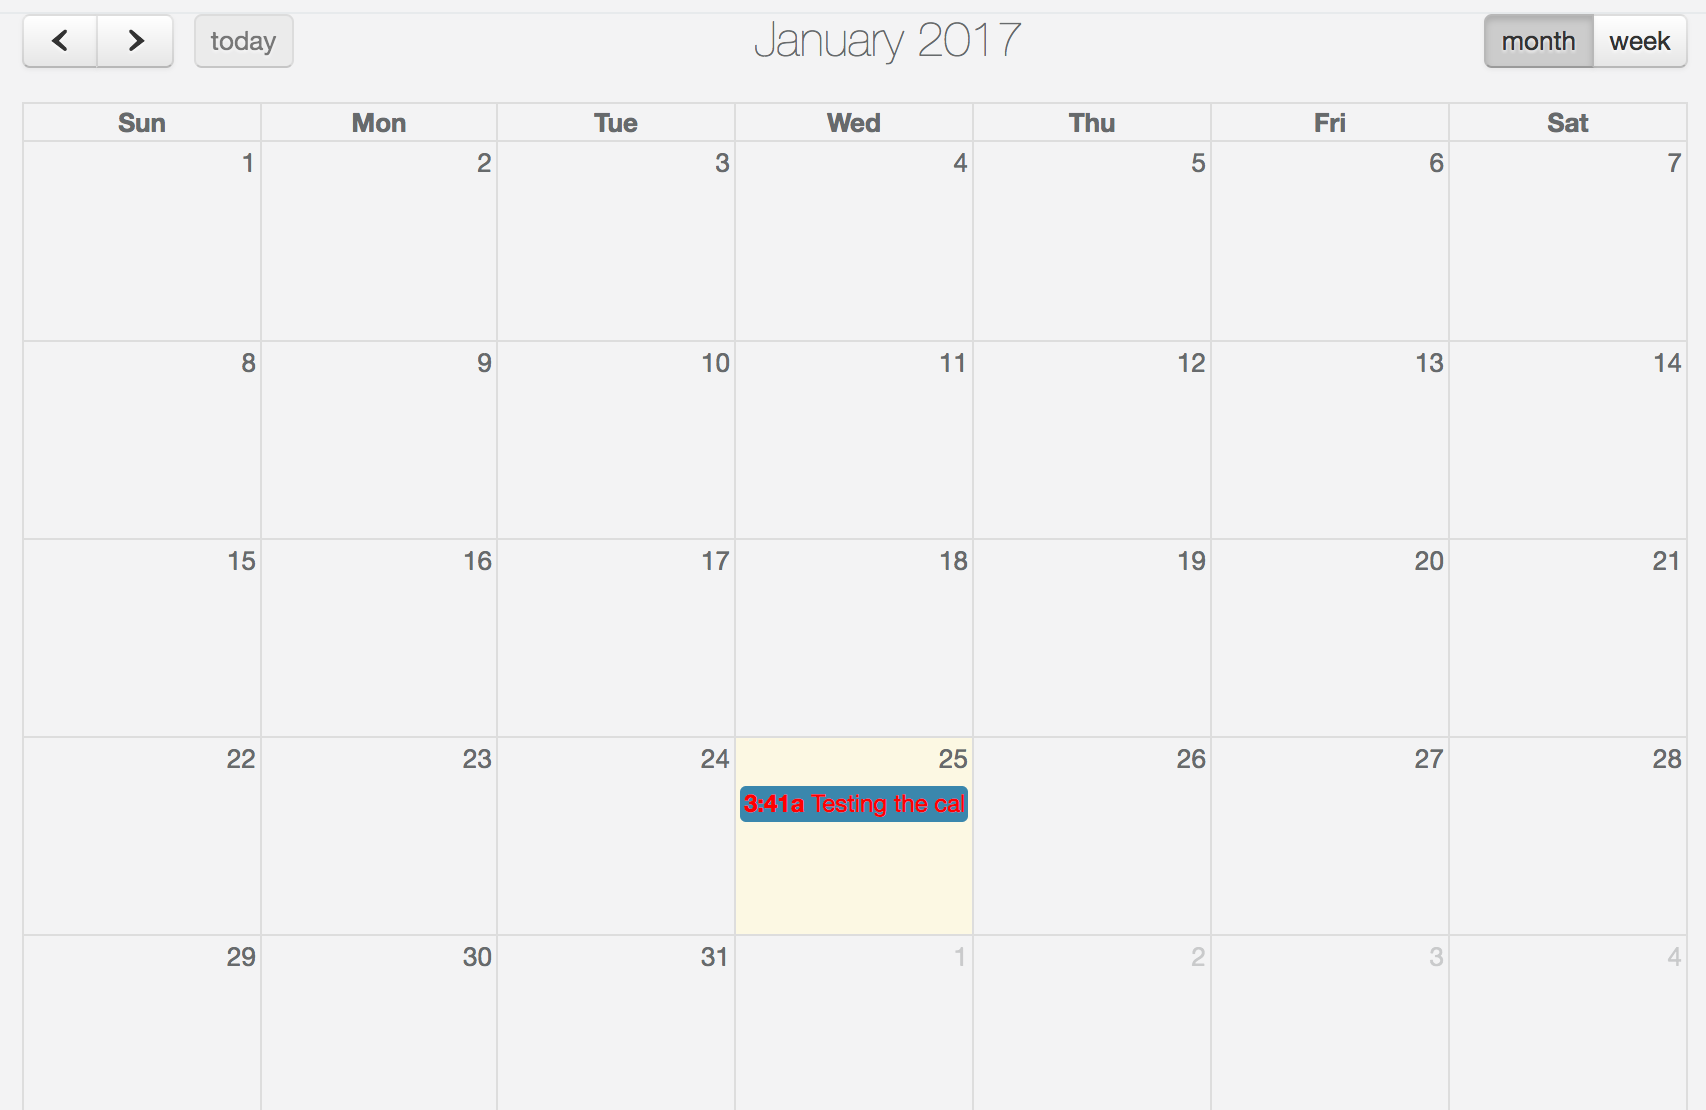
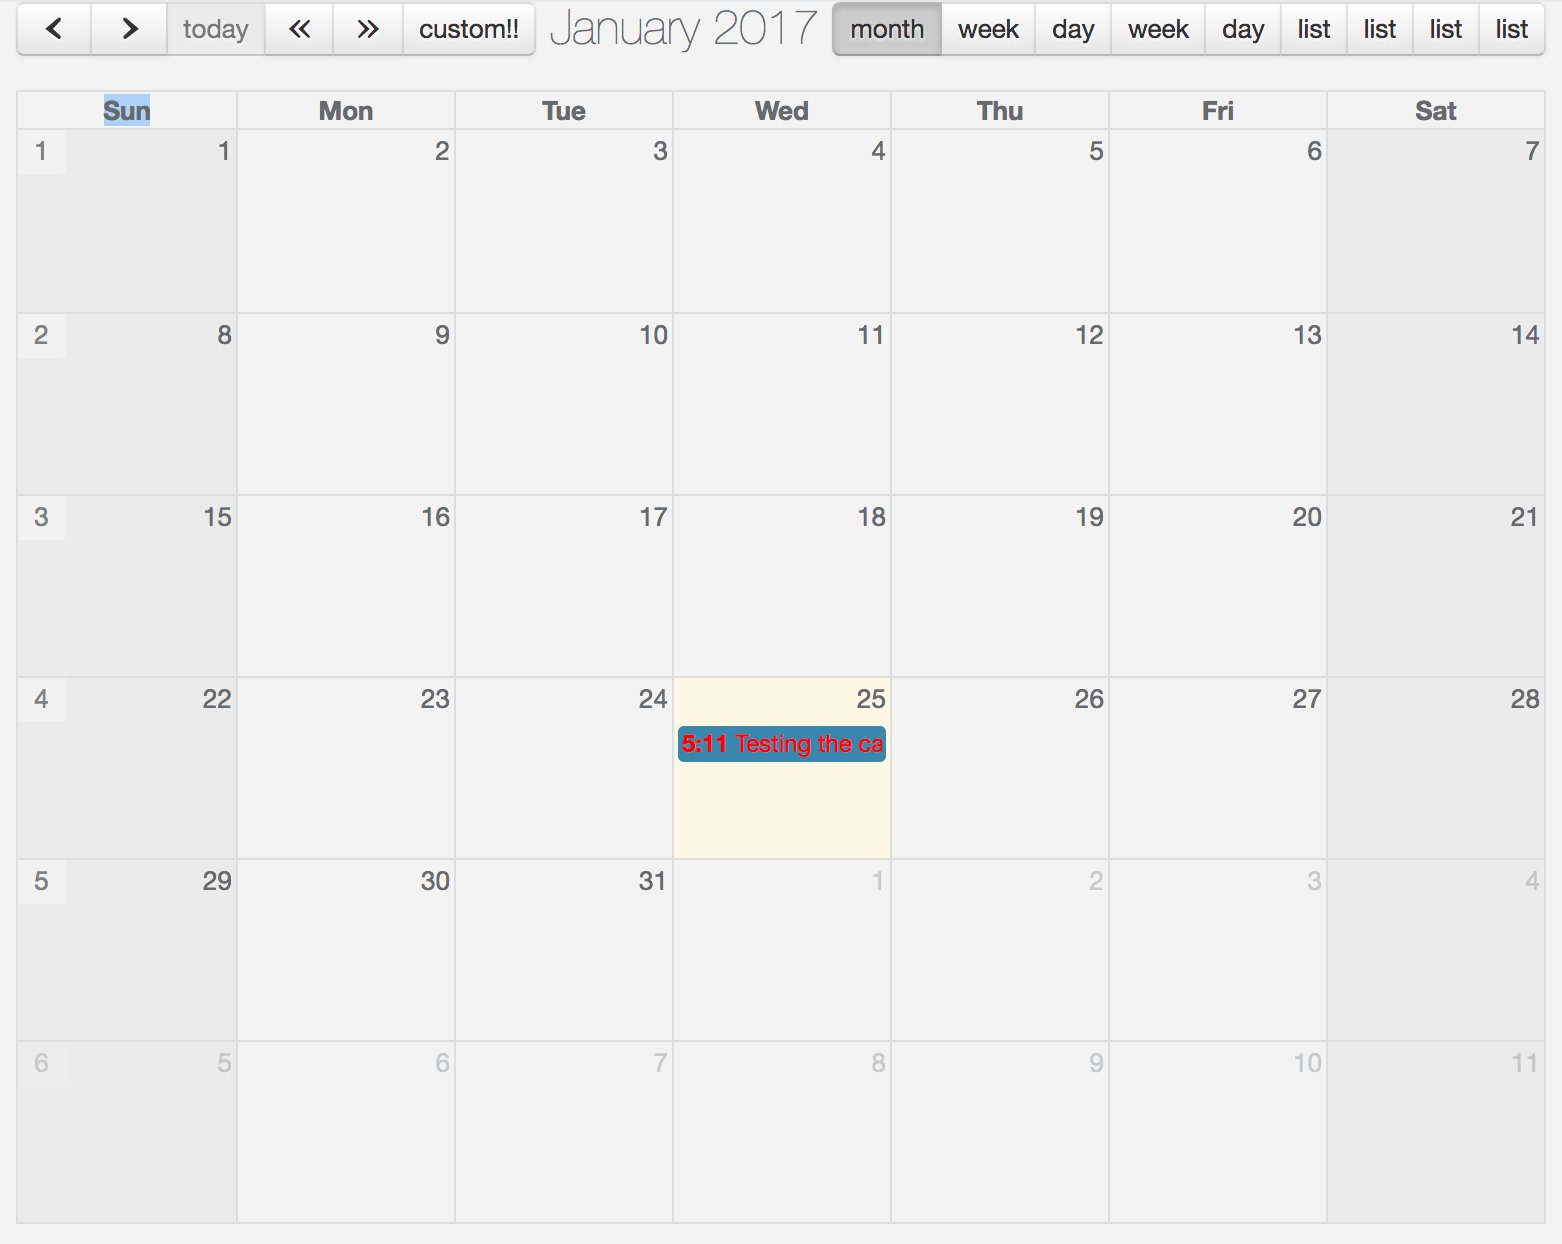
add fullcalendar config

diff --git a/tech/views/demo/calendar.php b/tech/views/demo/calendar.php
@@ -1,7 +1,36 @@
 <?php
-
+use yii\web\JsExpression;
 
 ?>
-<?= \yii2fullcalendar\yii2fullcalendar::widget(array(
+<?= \yii2fullcalendar\yii2fullcalendar::widget([
     'events' => $events,
-));
+    'clientOptions' => [
+        'timeFormat' => 'H(:mm)',
+        'titleFormat' => 'MMMM YYYY',
+        'columnFormat' => 'ddd',
+        'customButtons' => [
+            'myCb' => [
+                'text' => 'custom!!',
+                'click' => new JsExpression("function() {
+                alert('clicked the custom button!');
+            }")
+            ],
+        ],
+        // 显示周数
+        'weekNumbers' => true,
+        'weekends' => true,
+        'weekNumbersWithinDays' => true,
+        'businessHours' => [
+            'dow' => [1, 2, 3, 4, 5],
+            'start' => '10:00',
+            'end' => '18:00'
+        ],
+        'hiddenDays' => [] // hide Mondays, Wednesdays, and Fridays
+
+    ],
+    'header' => [
+        'left' => 'prev,next,today,prevYear,nextYear,myCb',
+        'center' => 'title',
+        'right' => 'month,basicWeek,basicDay,agendaWeek,agendaDay,listYear,listMonth,listWeek,listDay'
+    ]
+]);

diff --git a/tech/controllers/DemoController.php b/tech/controllers/DemoController.php
@@ -41,6 +41,7 @@ class DemoController extends Controller
         $event->id = 1;
         $event->title = 'Testing the calendar title';
         $event->start = date('Y-m-d\TH:i:s\Z');
+        $event->description = 'desc';
         $event->textColor = 'red';
         $events[] = $event;
         return $this->render('calendar', ['events' => $events]);

diff --git a/README.md b/README.md
@@ -78,8 +78,8 @@ mysql -uusername -ppassword dbname < tech.sql
 - audit访问记录
 ![audit](https://github.com/anruence/yii2-tech/raw/master/docs/audit.png
  "audit")
-- calendar
-![audit](https://github.com/anruence/yii2-tech/raw/master/docs/calendar.png
+- calendar展示
+![calendar](https://github.com/anruence/yii2-tech/raw/master/docs/calendar.png
  "calendar")
 
 ## nginx配置
